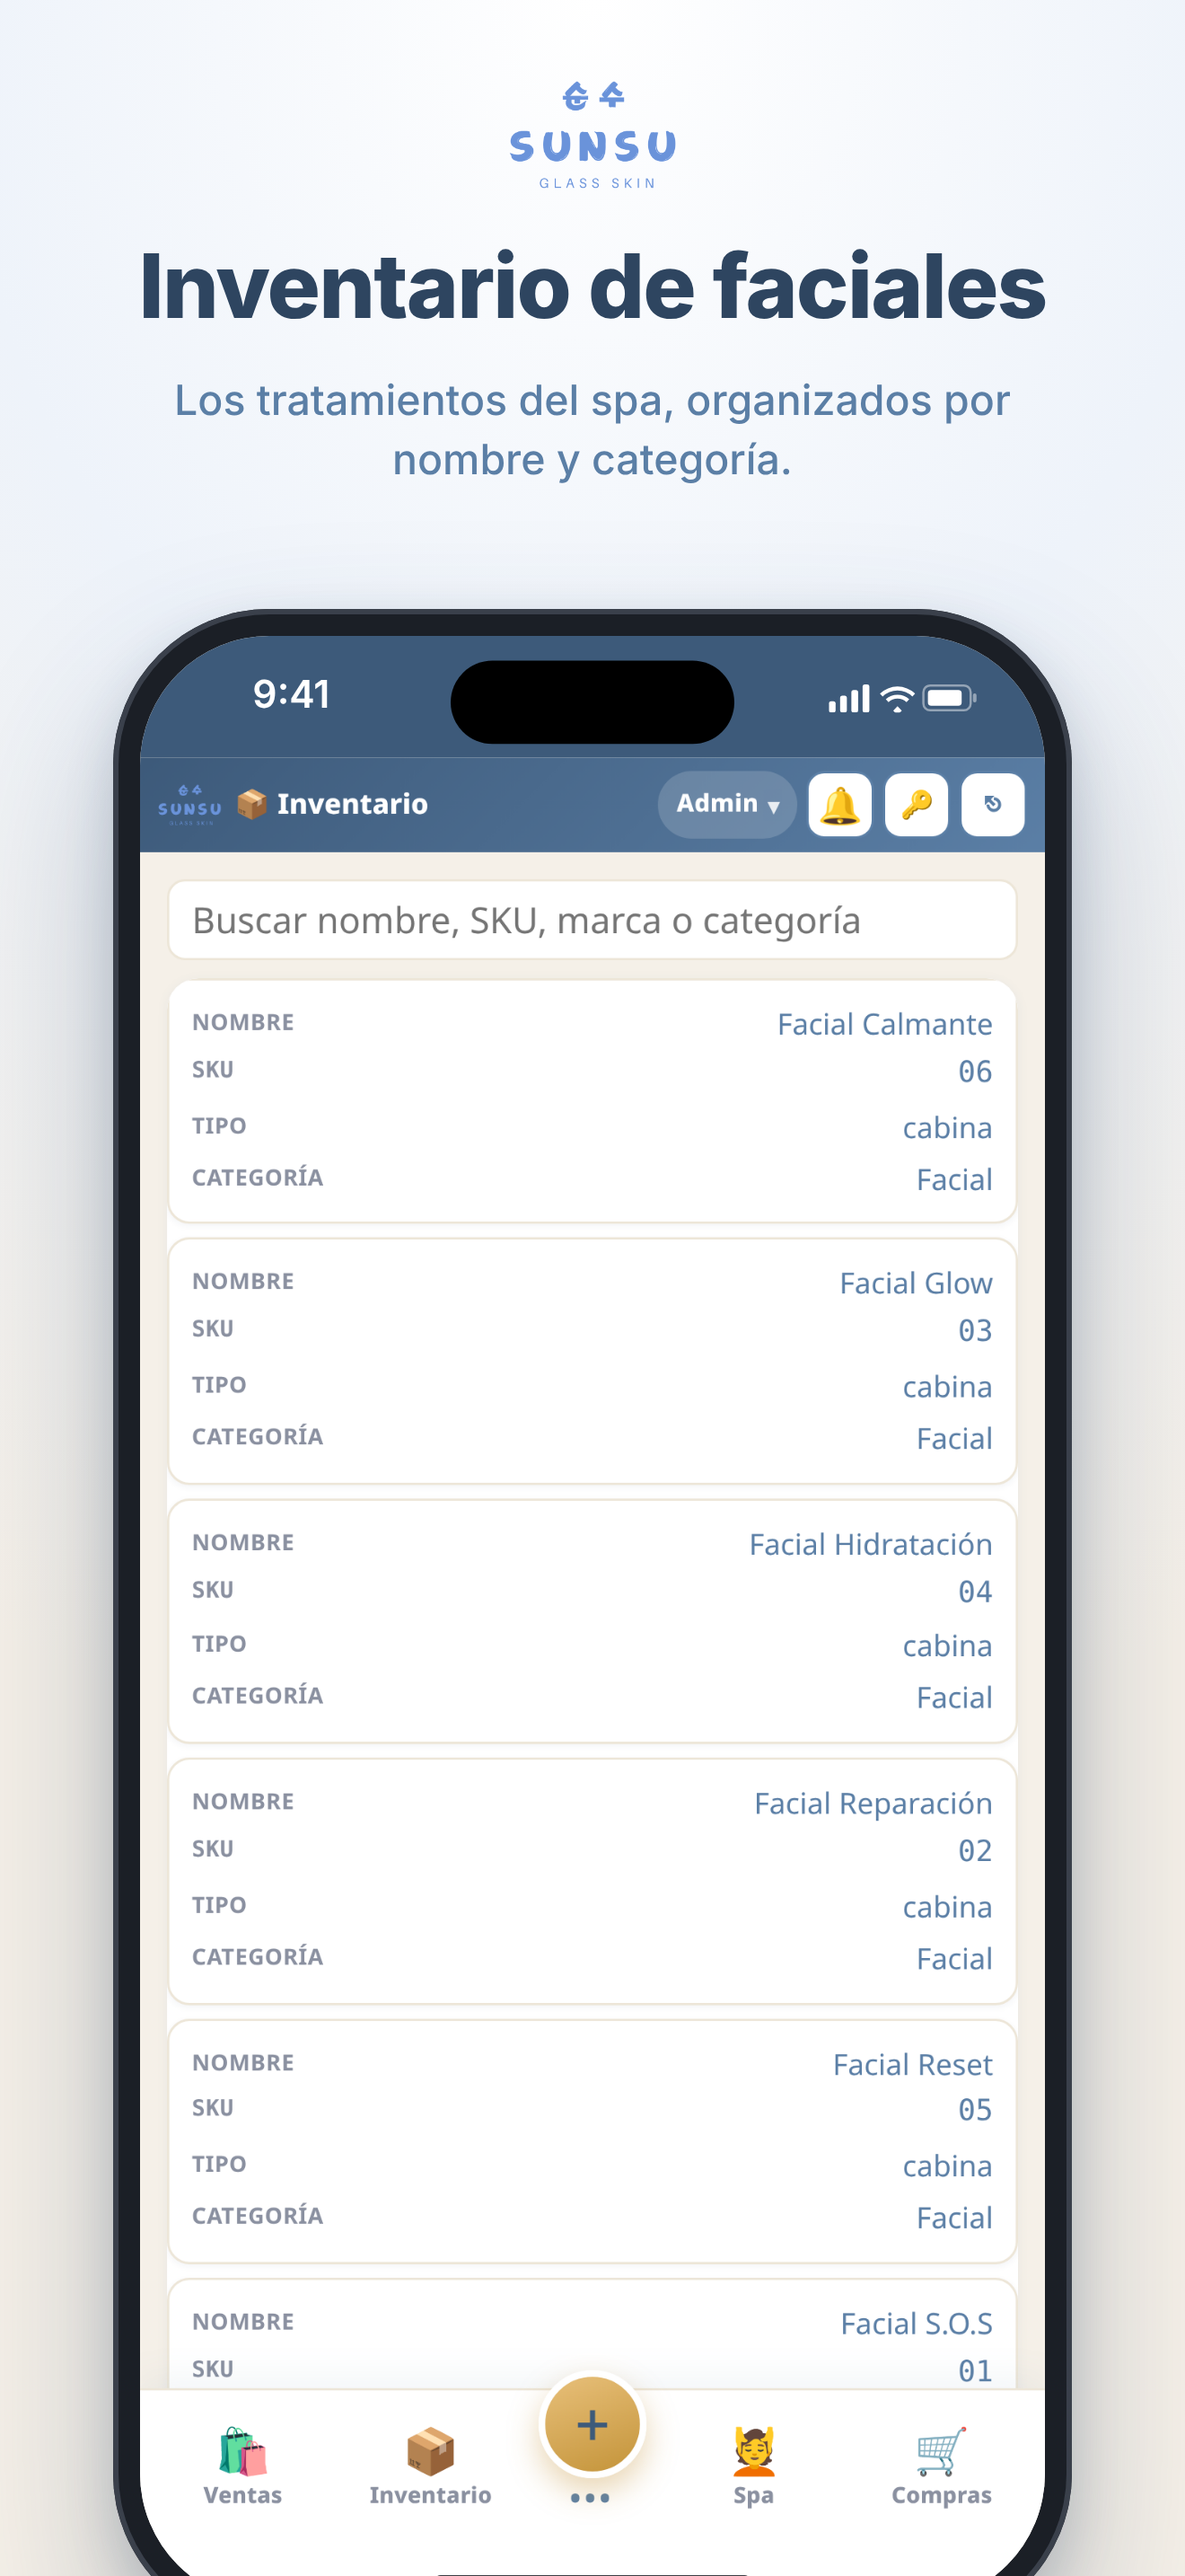
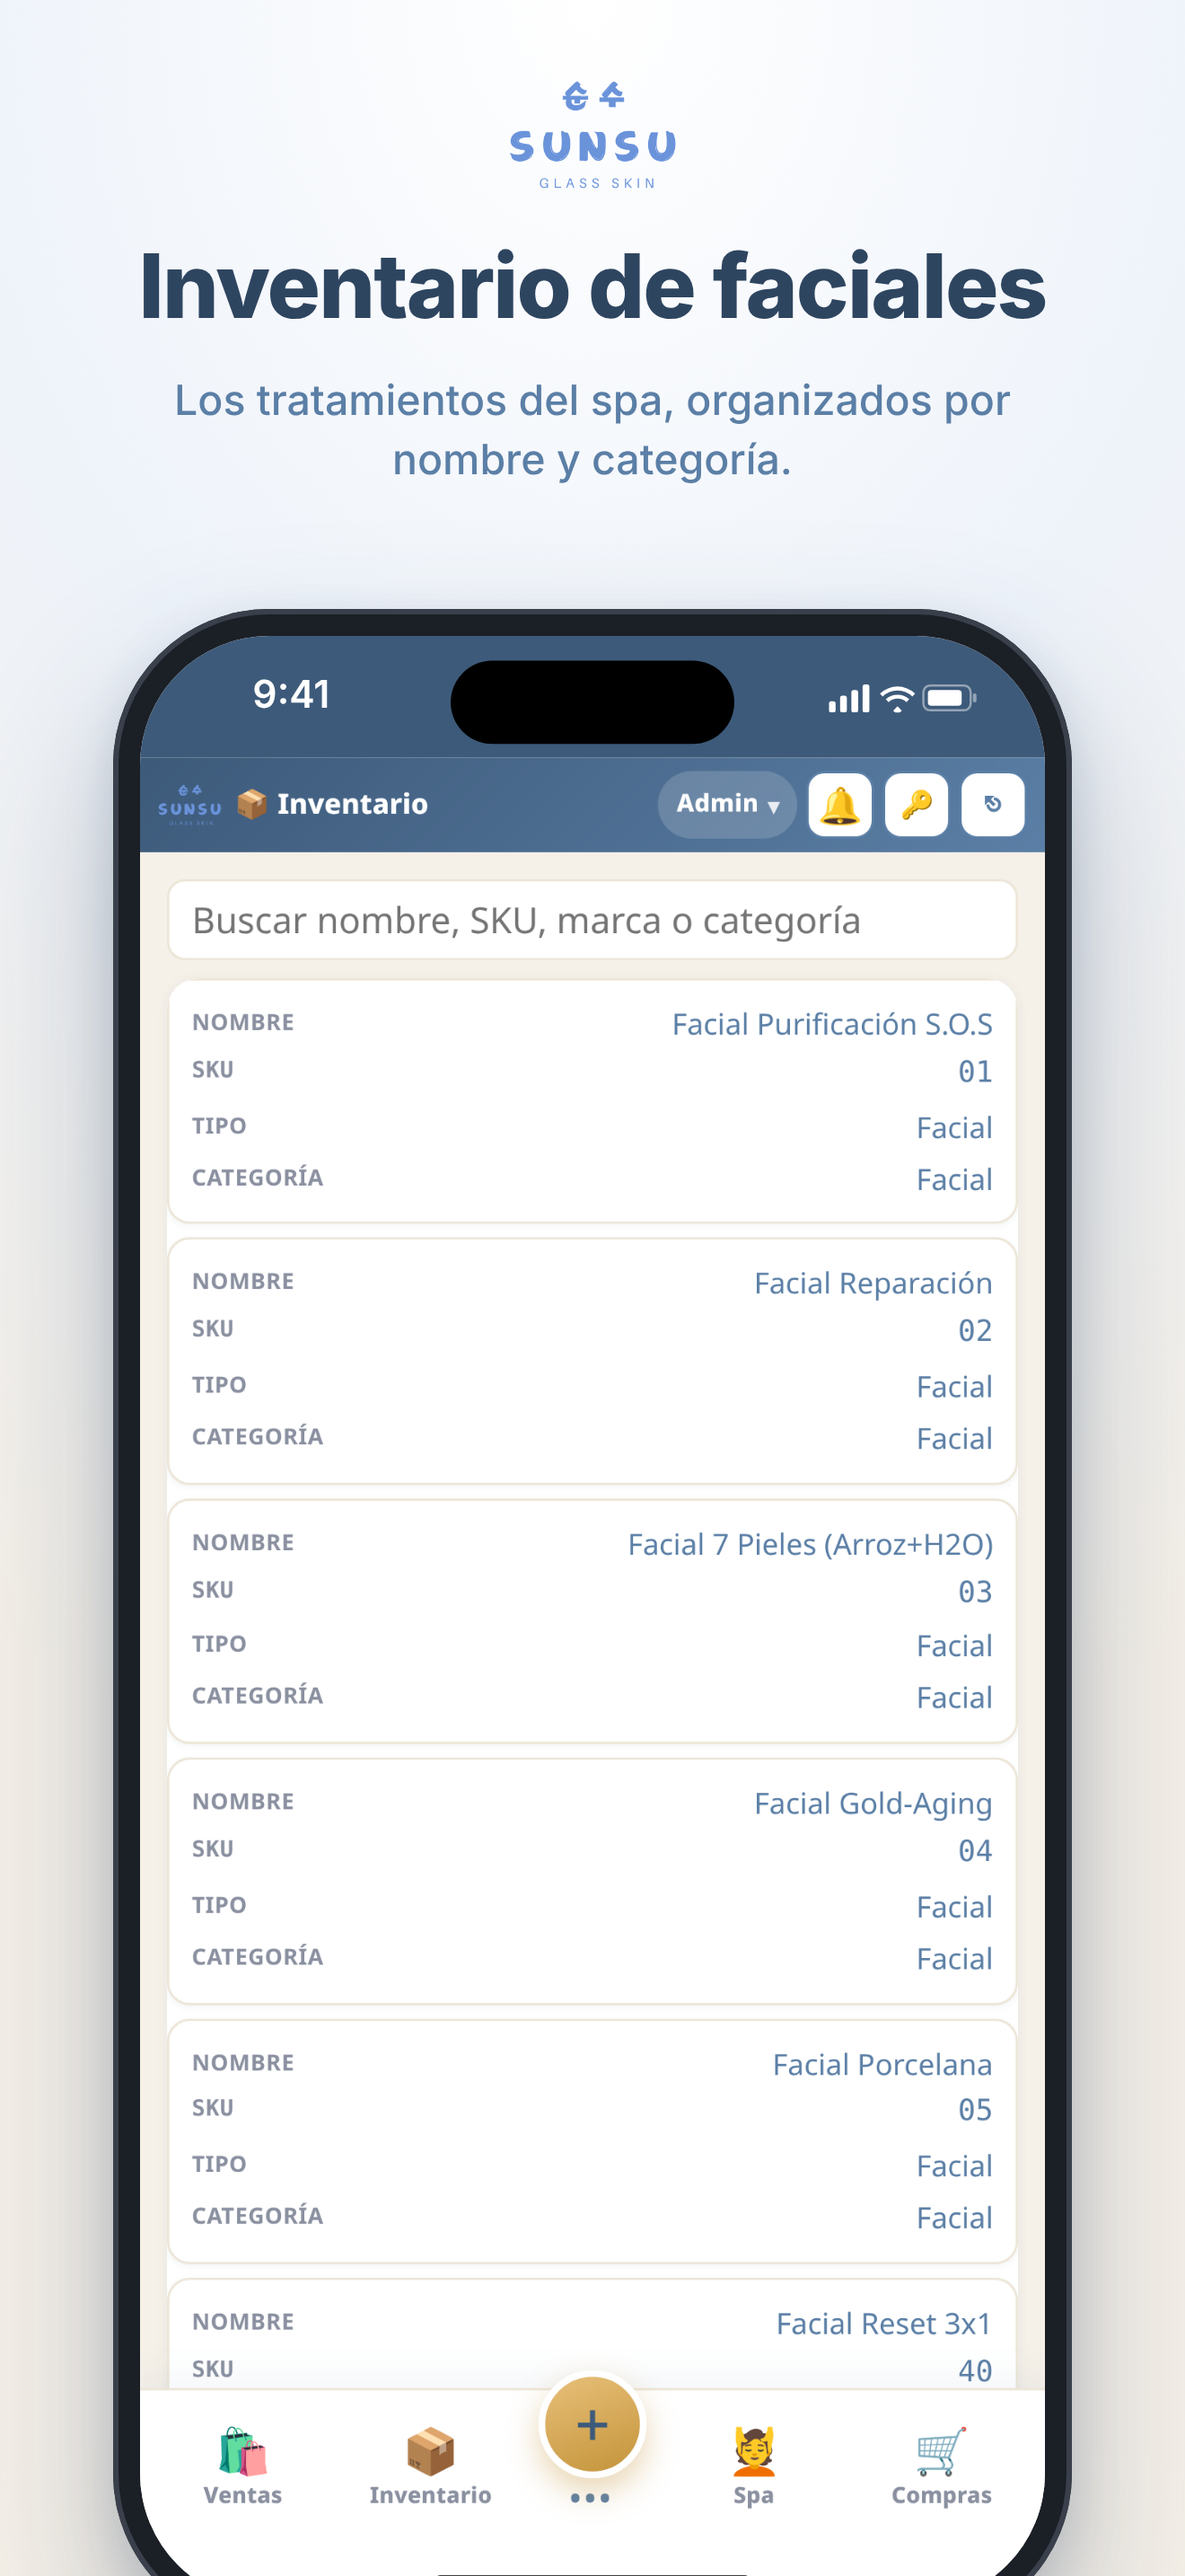
App Store: faciales y PVP reales en las capturas 02 y 03
Sustituye los tratamientos inventados (Hidratación, Calmante, Glow, etc.)
por los 10 faciales activos del catálogo en vivo y su PVP actual
(catalogo.total_con_iva = erp_productos.precio_venta). La agenda usa
los mismos nombres. No se toca 01-login.png.

diff --git a/docs/app-store/APP_STORE_CONNECT_KIT.md b/docs/app-store/APP_STORE_CONNECT_KIT.md
@@ -55,6 +55,8 @@ spa,facial,tickets,clientas,comisiones,inventario,cosmetología,asistencia,gift 
 | `04-ficha.png` | Ficha de clienta ficticia con carpetas de Skin Analysis, K-Lift y tratamientos |
 | `05-agenda.png` | Agenda del día (citas y tratamientos, sin montos) |
 
+Los nombres y el PVP de la carta (`03-catalogo.png`) salen del catálogo en vivo (`public.catalogo.total_con_iva`, que coincide con `erp_productos.precio_venta`; no hay `beta_pvp` de override). No se inventan faciales ni precios.
+
 App Store Connect reutiliza las de 6.9" para los demás tamaños de iPhone.
 
 ---
